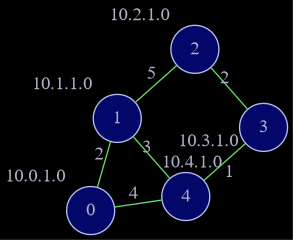
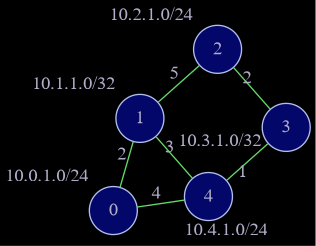
Add mask to node label

diff --git a/src/dotgen.c b/src/dotgen.c
@@ -11,10 +11,11 @@ void Simnet_dotgen(struct Router *routers){
         nodes[i] = agnode(graph, snum, 1);   
 
         //Address label on nodes
-        char addr_str[INET_ADDRSTRLEN] = {0};
+        char addr_str[INET_ADDRSTRLEN + 3] = {0};
         struct in_addr iaddr;
         iaddr.s_addr = htonl(routers[i].ipv4);
         inet_ntop(AF_INET, &iaddr, addr_str, INET_ADDRSTRLEN);
+        sprintf(&addr_str[strlen(addr_str)], "/%d", routers[i].mask_len);
         agsafeset(nodes[i], "xlabel", addr_str , "");
     }
 
